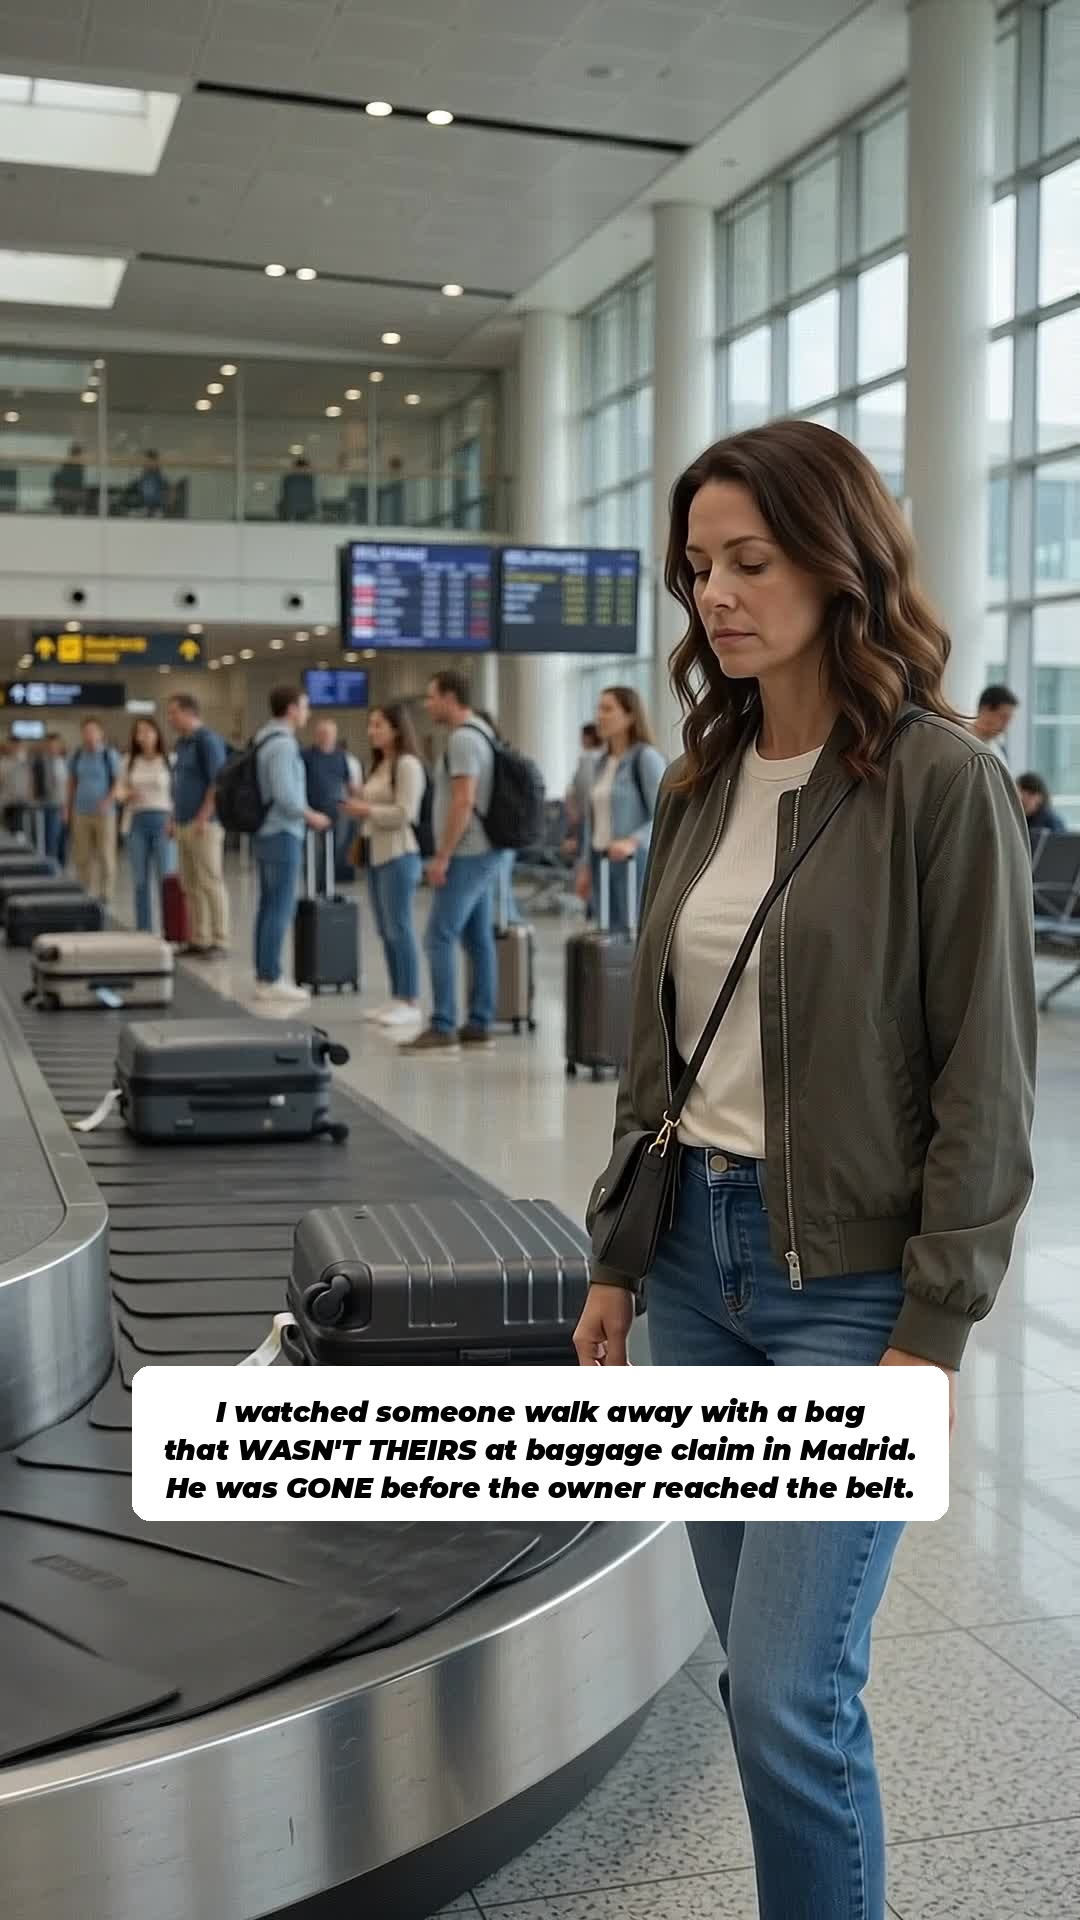
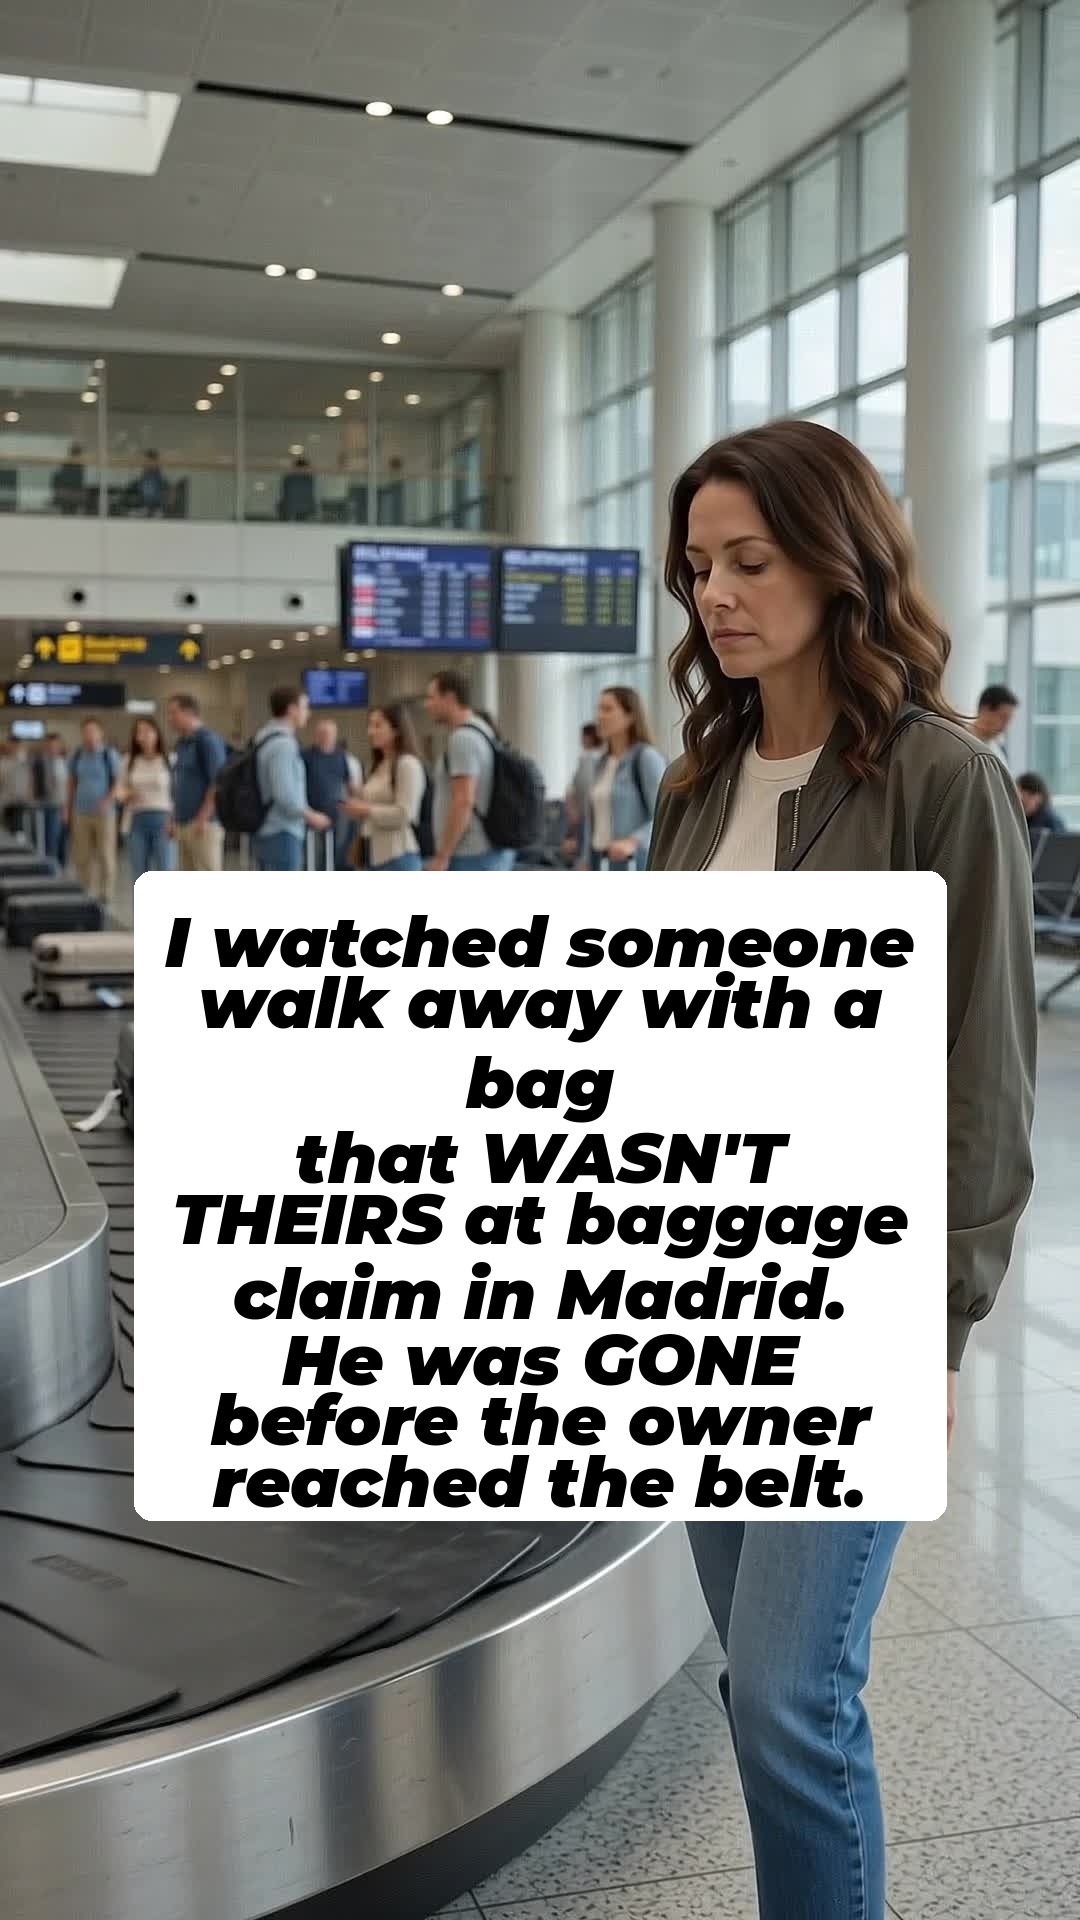
fix: word wrap inside box — hardcoded as pipeline standard
- render_batch.py: pick_font() does word wrap + vertical safe zone check
- CLAUDE.md: removed old ban on word wrap, locked correct rules
- kira-hooks, kira-captions, quality-check skills: updated to match

Claude-Session: https://claude.ai/code/session_01RHgEu67xsRKuce2TUQzKH2

Changed region(s): [[0.1222, 0.4375, 0.8861, 0.8125]]

diff --git a/render_batch.py b/render_batch.py
@@ -76,33 +76,77 @@ REELS = [
 ]
 
 
-def pick_font(lines, max_size=70, min_size=18):
-    """Pick largest font where every line fits on ONE line within MAX_TEXT_W. No word wrap."""
+TOP_SAFE = 270  # Instagram header safe zone
+
+
+def wrap_line(text, font, max_width):
+    """Word-wrap one logical line into visual lines, each ≤ max_width."""
+    dummy = ImageDraw.Draw(Image.new("RGBA", (1, 1)))
+    words = text.split()
+    visual_lines, current = [], ""
+    for word in words:
+        candidate = (current + " " + word).strip()
+        if dummy.textlength(candidate, font=font) <= max_width:
+            current = candidate
+        else:
+            if current:
+                visual_lines.append(current)
+            current = word
+    if current:
+        visual_lines.append(current)
+    return visual_lines or [text]
+
+
+def pick_font(lines, max_size=70, min_size=24):
+    """Pick largest font where:
+    - every visual line (after word wrap) fits within MAX_TEXT_W
+    - the resulting box top stays above TOP_SAFE (270px)
+    """
     dummy = ImageDraw.Draw(Image.new("RGBA", (1, 1)))
     for size in range(max_size, min_size - 1, -1):
         font = ImageFont.truetype(FONT_PATH, size)
-        if all(dummy.textlength(l, font=font) <= MAX_TEXT_W for l in lines):
-            return font, size, list(lines)
-    # Absolute fallback — min_size, lines may still overflow but we report it
+        # Build visual lines with word wrap
+        visual_lines = []
+        for l in lines:
+            visual_lines.extend(wrap_line(l, font, MAX_TEXT_W))
+        # Check all lines fit horizontally
+        if not all(dummy.textlength(l, font=font) <= MAX_TEXT_W for l in visual_lines):
+            continue
+        # Check box fits vertically (top stays in safe zone)
+        line_heights = [int(font.getbbox(l)[3] - font.getbbox(l)[1]) for l in visual_lines]
+        total_text_h = sum(line_heights) + LINE_GAP * (len(visual_lines) - 1)
+        box_h = PAD_TOP + total_text_h + PAD_BOT
+        hook_y0 = BOTTOM_ANCHOR - box_h
+        if hook_y0 >= TOP_SAFE:
+            return font, size, visual_lines
+    # Fallback to min_size
     font = ImageFont.truetype(FONT_PATH, min_size)
-    return font, min_size, list(lines)
+    visual_lines = []
+    for l in lines:
+        visual_lines.extend(wrap_line(l, font, MAX_TEXT_W))
+    return font, min_size, visual_lines
 
 
 def preflight_check(lines):
-    """Verify every line fits within MAX_TEXT_W at chosen font size. Block render if any overflow."""
+    """Pre-flight: verify no horizontal overflow and box is within vertical safe zone."""
     font, size, visual_lines = pick_font(lines)
     dummy = ImageDraw.Draw(Image.new("RGBA", (1, 1)))
+    line_heights = [int(font.getbbox(l)[3] - font.getbbox(l)[1]) for l in visual_lines]
+    total_text_h = sum(line_heights) + LINE_GAP * (len(visual_lines) - 1)
+    box_h = PAD_TOP + total_text_h + PAD_BOT
+    hook_y0 = BOTTOM_ANCHOR - box_h
     ok = True
-    print(f"  [preflight] font={size}px, lines={len(visual_lines)}")
+    print(f"  [preflight] font={size}px | visual_lines={len(visual_lines)} | hook_y0={hook_y0}px")
     for l in visual_lines:
         w = dummy.textlength(l, font=font)
         fits = w <= MAX_TEXT_W
-        if not fits:
-            ok = False
-        flag = "✅" if fits else "❌ OVERFLOW"
-        print(f"    {flag} {int(w)}px — {l}")
-    if not ok:
-        print(f"  ❌ OVERFLOW DETECTED — hook must be shortened")
+        if not fits: ok = False
+        print(f"    {'✅' if fits else '❌ OVERFLOW'} {int(w)}px — {l}")
+    if hook_y0 < TOP_SAFE:
+        ok = False
+        print(f"  ❌ BOX TOO TALL: hook_y0={hook_y0} < TOP_SAFE={TOP_SAFE}")
+    else:
+        print(f"  ✅ Vertical fit: box top at {hook_y0}px")
     return ok
 
 
@@ -112,9 +156,6 @@ def draw_overlay(bg_path, lines, out_path):
 
     font, size, visual_lines = pick_font(lines)
     dummy_draw = ImageDraw.Draw(Image.new("RGBA", (1, 1)))
-    # Safety: clip any line that still overflows (should not happen after pick_font)
-    assert all(dummy_draw.textlength(l, font=font) <= MAX_TEXT_W + 2 for l in visual_lines), \
-        f"Line overflow at font {size}px — shorten the hook"
 
     line_heights = [int(font.getbbox(l)[3] - font.getbbox(l)[1]) for l in visual_lines]
     total_text_h = sum(line_heights) + LINE_GAP * (len(visual_lines) - 1)

diff --git a/CLAUDE.md b/CLAUDE.md
@@ -611,14 +611,17 @@ Canvas: **1080 × 1920px**
 - `MAX_TEXT_W = 760px` — лимит текста внутри плашки (с учётом PAD_X)
 - **BOX WIDTH = адаптивная**: `min(860, max_line_width + 2*PAD_X)` — плашка по ширине контента
 - **ПЛАШКА = непрозрачная белая**: `fill=(255,255,255,255)` — НЕ 248, не полупрозрачная
-- font: max_size=70, **min_size=40**, перебирать от 70 вниз пока строка ≤ MAX_TEXT_W
-- ⛔ ПЕРЕНОС СЛОВ ЗАПРЕЩЁН — если строка не влезает при min_size=40, переписать хук короче
-- Перед рендером: проверить `dummy.textlength(line) <= MAX_TEXT_W` для каждой строки
+- font: max_size=70, **min_size=24**, перебирать от 70 вниз
+- **WORD WRAP = ОБЯЗАТЕЛЬНО**: длинные строки переносятся словами на новую визуальную строку внутри плашки. Хук не укорачивать.
+- pick_font() подбирает шрифт так чтобы: (1) каждая визуальная строка ≤ MAX_TEXT_W, (2) плашка влезает между TOP_SAFE=270px и BOTTOM_ANCHOR=1520px
+- Preflight check запускается ПЕРЕД каждым рендером — блокирует если что-то не влезает
+- **TOP_SAFE = 270px** — верхняя граница плашки (ниже Instagram header)
 
-❌ ЗАПРЕЩЕНО: ставить текст сверху, BOTTOM_ANCHOR > 1520, текст > 864px ширины
-❌ ЗАПРЕЩЕНО: авто-перенос внутри строки — только сокращать хук
+❌ ЗАПРЕЩЕНО: ставить текст сверху, BOTTOM_ANCHOR > 1520, текст > 760px ширины
+❌ ЗАПРЕЩЕНО: плашка вылезает за BOTTOM_ANCHOR или выше TOP_SAFE
 ❌ ЗАПРЕЩЕНО: полупрозрачная плашка — только fill=(255,255,255,255)
-✅ ВСЕГДА: плашка адаптируется под контент, текст 100% внутри плашки, превью перед пушем
+✅ ОБЯЗАТЕЛЬНО: word wrap внутри плашки, плашка расширяется по высоте под контент
+✅ ОБЯЗАТЕЛЬНО: превью перед пушем, preflight check перед каждым рендером
 
 ---
 
@@ -664,12 +667,12 @@ $FFMPEG -stream_loop -1 -i "$MUSIC" -stream_loop -1 -i [VIDEO] \
   → системный путь: `/usr/share/fonts/truetype/montserrat/Montserrat-BlackItalic.ttf`
   → установить: `apt-get install -y fonts-montserrat` (одна команда, работает всегда)
   → кешировать в: `/tmp/montserrat_extract/usr/share/fonts/truetype/montserrat/Montserrat-BlackItalic.ttf`
-- Шрифт: auto_font(max_size=70, **min_size=40**), перебирать пока строка ≤ MAX_TEXT_W=760px
+- Шрифт: pick_font(max_size=70, **min_size=24**), word wrap, перебирать пока все визуальные строки ≤ 760px И плашка между TOP_SAFE=270 и BOTTOM_ANCHOR=1520
 - СТИЛЬ: СПЛОШНАЯ ПЛАШКА — один прямоугольник на весь текст, строки внутри с LINE_GAP=8px
-- FILL: (255, 255, 255, 248), RADIUS: 18, PAD_X: 32, PAD_TOP/BOTTOM: 28
+- FILL: (255, 255, 255, 255), RADIUS: 18, PAD_X: 32, PAD_TOP/BOTTOM: 28
 - CENTER_X: 540, **MAX_TEXT_W: 760px** (абсолют), **BOX_W: адаптивная** = min(860, max_lw + 2*PAD_X)
-- BOTTOM_ANCHOR: 1550px (выше Instagram UI chrome)
-- Проверка перед рендером: `all(textlength(l) <= 760 for l in lines)` — если False, переписать хук
+- BOTTOM_ANCHOR: 1520px (жёсткий лимит), TOP_SAFE: 270px (верхний лимит)
+- **Preflight check перед каждым рендером** — автоматически, блокирует при overflow
 - **ОБЯЗАТЕЛЬНЫЙ ПРЕ-РЕНДЕР ПРЕВЬЮ (вшито навсегда):** До рендера финального MP4 — показать хук на реальном кадре из выбранного клипа. Порядок:
   1. Извлечь кадр из реального footage клипа: `$FFMPEG -y -ss 2 -i /home/user/preland/footage/[CLIP].mp4 -vframes 1 -vf "scale=1080:1920:force_original_aspect_ratio=increase,crop=1080:1920" /tmp/preview_bg.jpg`
   2. PIL overlay: белая плашка + хук-текст с auto-sizing (72→36px, до max_width=760px), CAPS на ключевых словах, BOTTOM_ANCHOR=1520px, CENTER_X=540

diff --git a/.claude/skills/quality-check/SKILL.md b/.claude/skills/quality-check/SKILL.md
@@ -56,10 +56,10 @@ ffprobe -v quiet -print_format json -show_streams /path/to/reel.mp4
 
 - Сплошная плашка (один прямоугольник, не отдельные на каждую строку) ✅
 - `hook_y0 = 1550 - box_height` — текст внизу, выше Instagram UI ✅
-- `cta_bottom ≤ 1550` — не перекрыто Instagram chrome ✅
+- `hook_y0 ≥ 270px` и `BOTTOM_ANCHOR = 1520px` — плашка в safe zone ✅
 - `center_x = 540 ± 2px` — отцентровано горизонтально ✅
-- `box_w ≤ 860px` | текст внутри `≤ 760px` — не выходит за края экрана ✅
-- Авто-перенос строк если строка > MAX_TEXT_W (встроено в render.py) ✅
+- `box_w ≤ 860px` | каждая визуальная строка ≤ 760px — не выходит за края плашки ✅
+- Word wrap внутри плашки (pick_font, min_size=24) — хук не укорачивать ✅
 
 ❌ Отдельные плашки на каждую строку → перерендерить через render.py
 ❌ box_w > 860px → текст выйдет за края телефона → уменьшить строки

diff --git a/.claude/skills/kira-captions/SKILL.md b/.claude/skills/kira-captions/SKILL.md
@@ -837,9 +837,9 @@ Only publish if all 7 green + Focus Group 15+ sends. If any red — find the wea
 ## TEXT PLACEMENT — ЖЕЛЕЗНОЕ ПРАВИЛО
 
 **СПЛОШНАЯ ПЛАШКА внизу кадра. Лицо свободно сверху. Никаких измерений.**
-- `BOTTOM_ANCHOR = 1550px` | `hook_y0 = 1550 - box_height`
+- `BOTTOM_ANCHOR = 1520px` | `hook_y0 = 1520 - box_height` | `TOP_SAFE = 270px`
 - Один прямоугольник на весь текст (не отдельные плашки на строку)
-- `MAX_BOX_W = 860px` | `MAX_TEXT_W = 760px` — авто-перенос если строка длиннее
+- `MAX_BOX_W = 860px` | `MAX_TEXT_W = 760px` — word wrap внутри плашки, хук не укорачивать
 - ❌ hook_y0 = 80 ЗАПРЕЩЕНО | ❌ отдельные плашки на строки ЗАПРЕЩЕНО
 - Render script: `/home/user/preland/render.py` — использовать всегда
 QA: center=540±2px | box_w ≤ 860px | cta_bottom ≤ 1550

diff --git a/.claude/skills/kira-hooks/SKILL.md b/.claude/skills/kira-hooks/SKILL.md
@@ -1142,7 +1142,7 @@ Always show JPG preview frame from final MP4 before scheduling. No exceptions.
 
 - Font: Montserrat-BlackItalic
   Path: `/tmp/montserrat_extract/usr/share/fonts/truetype/montserrat/Montserrat-BlackItalic.ttf`
-- Font size: auto_font(max_size=70, min_size=50), авто-перенос строк если > MAX_TEXT_W
+- Font size: pick_font(max_size=70, min_size=24) — word wrap внутри плашки, хук не укорачивать
 - СТИЛЬ: **СПЛОШНАЯ ПЛАШКА** — один прямоугольник на весь текст, строки внутри с LINE_GAP=8px
 - FILL: (255,255,255,248) | RADIUS: 18 | PAD_X: 32 | PAD_TOP/BOTTOM: 28 | LINE_GAP: 8
 - Canvas: 1080×1920 | CENTER_X=540 | **MAX_BOX_W=860px** (НИКОГДА не менять) | **MAX_TEXT_W=760px**
